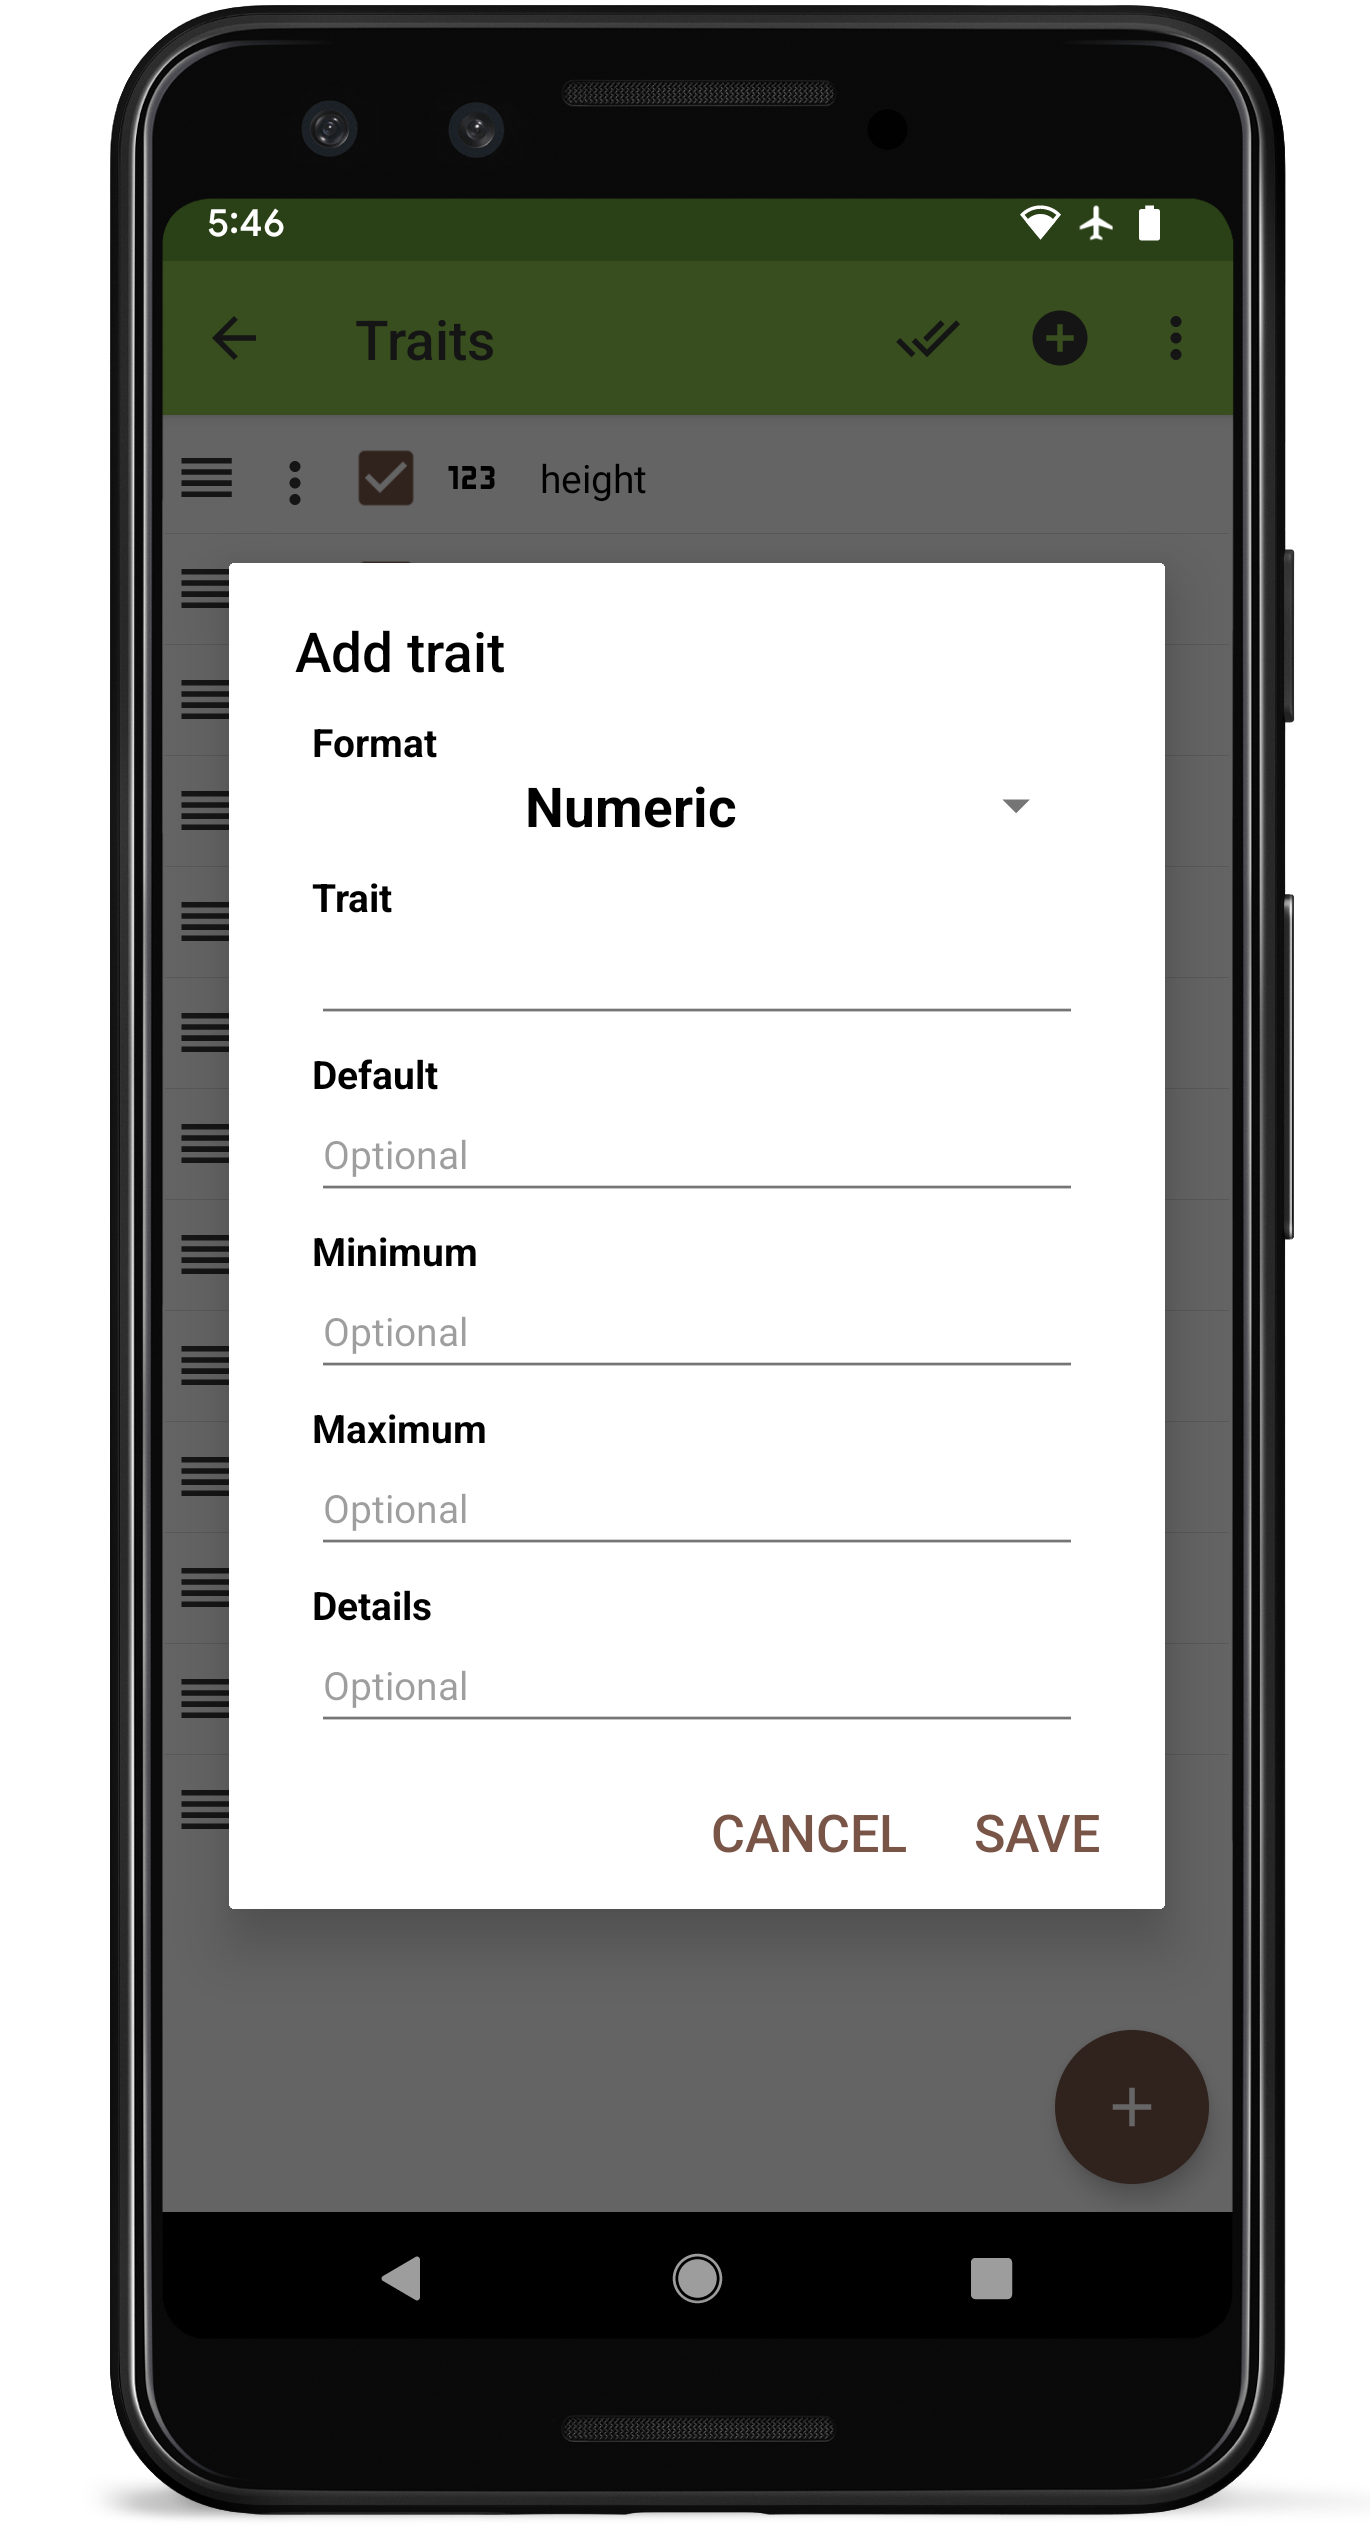
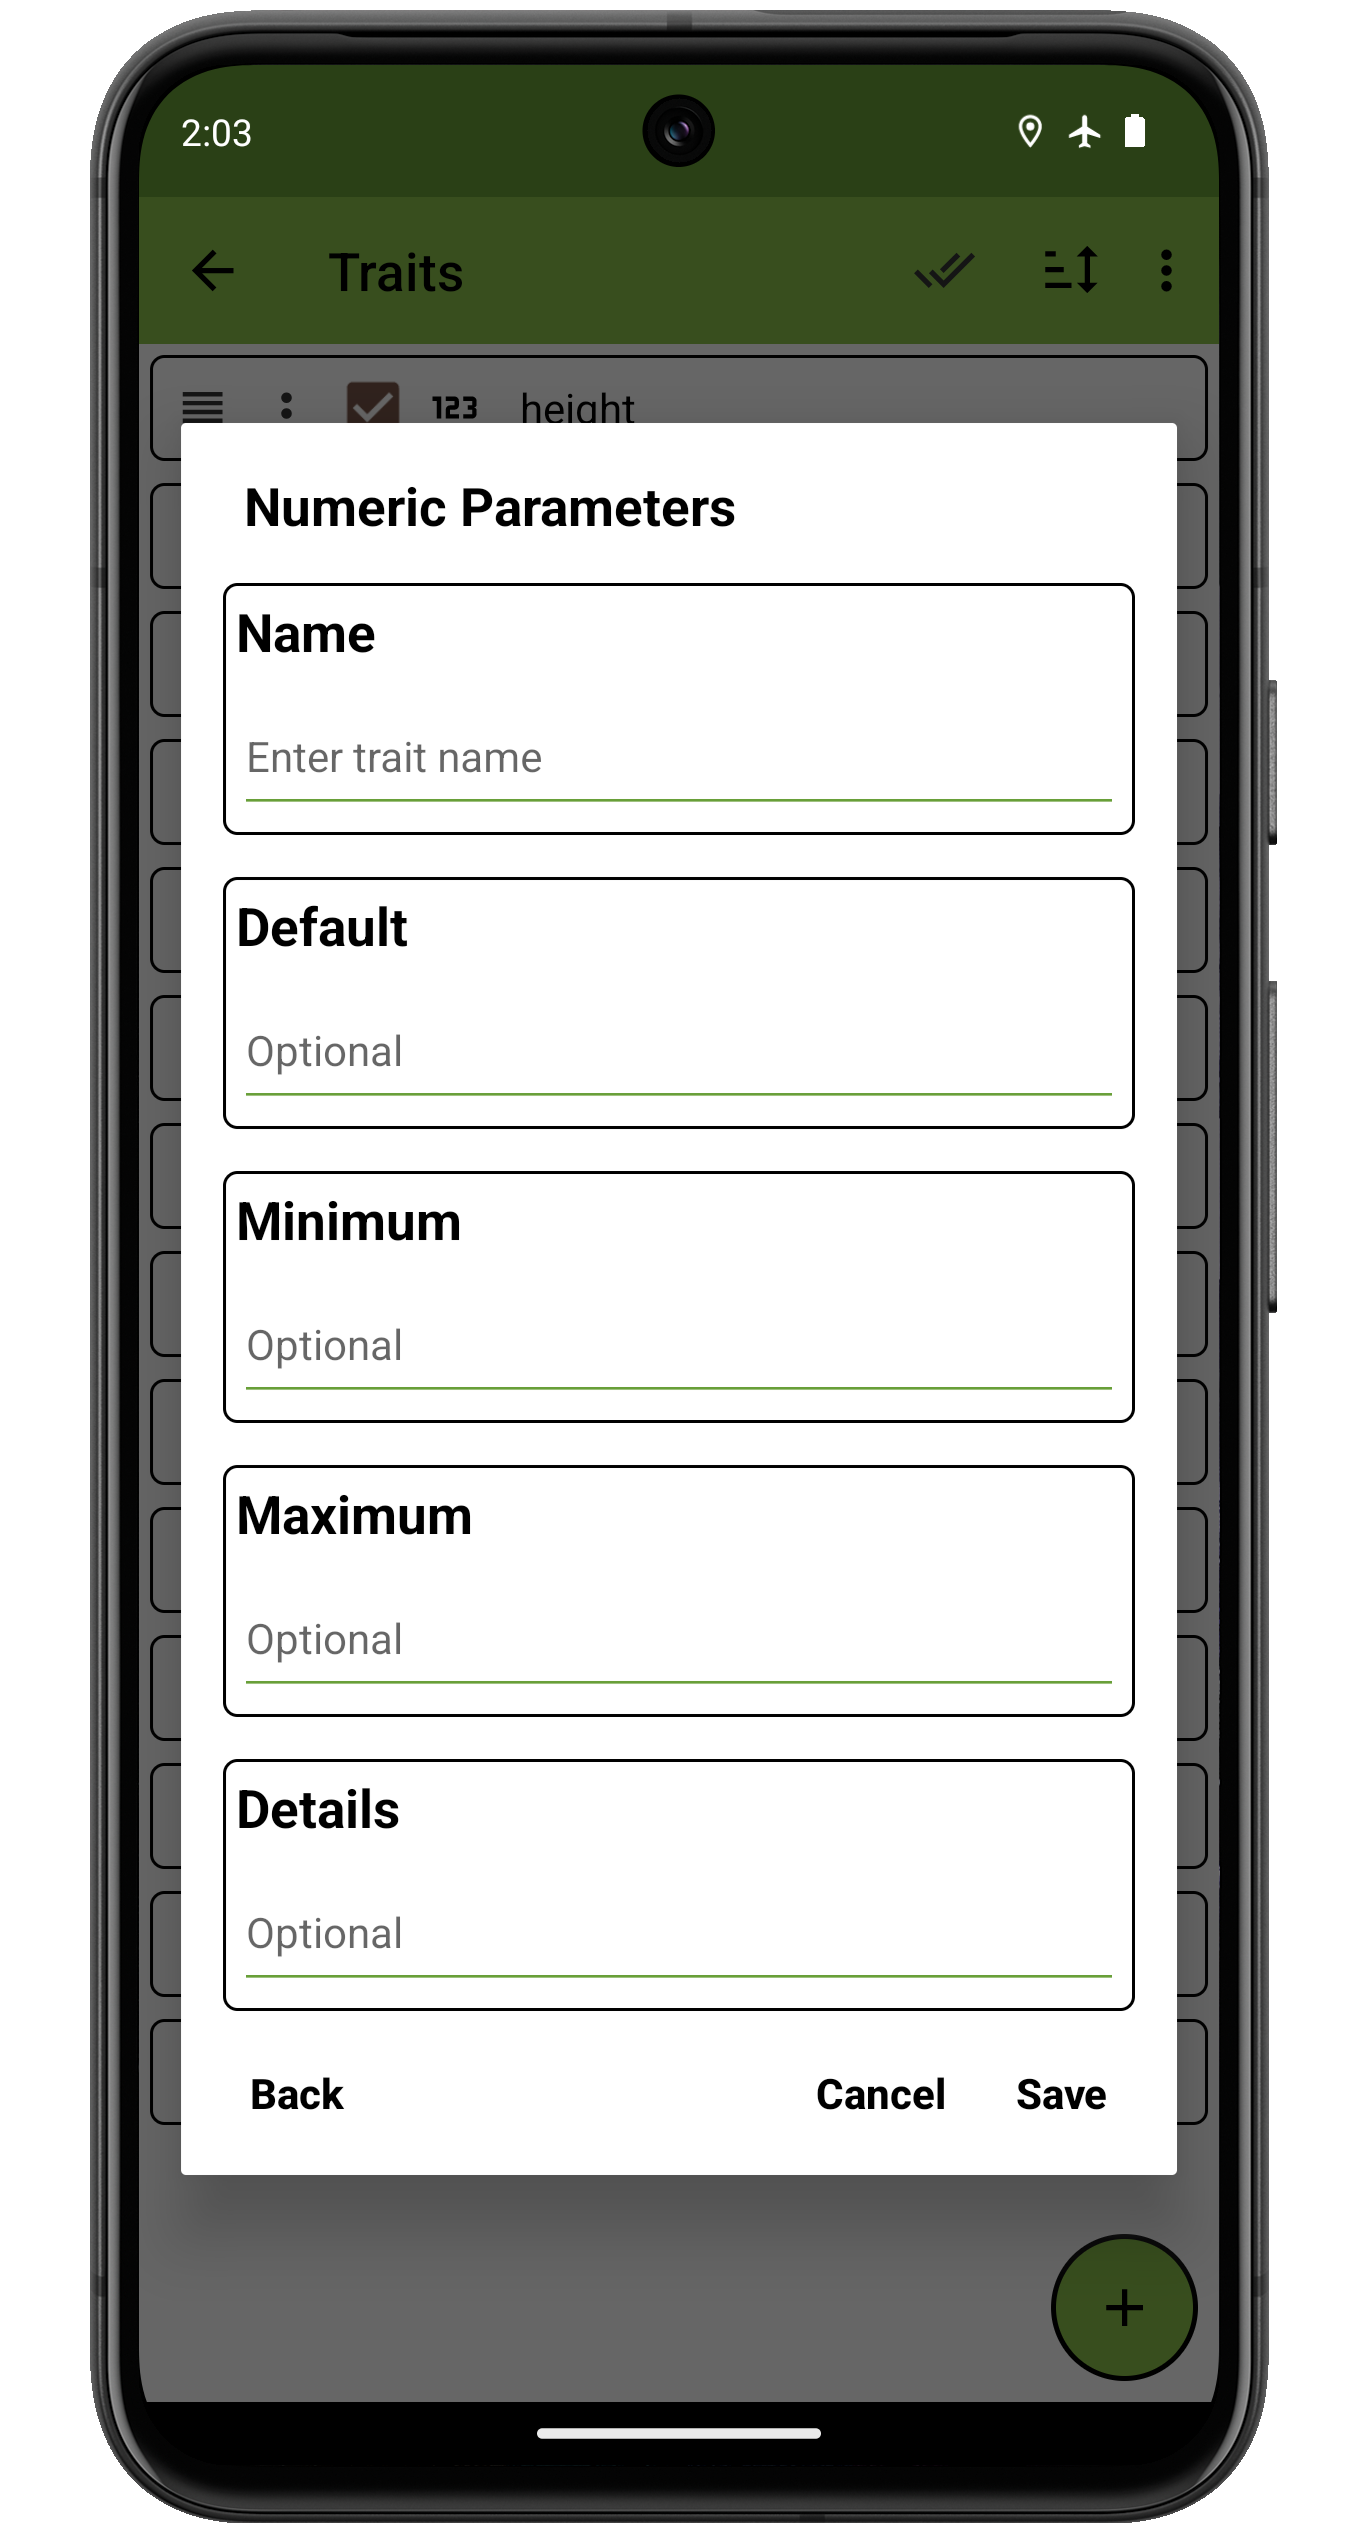
trait doc updates

diff --git a/docs/traits/trait-photo.md b/docs/traits/trait-photo.md
@@ -4,26 +4,46 @@
 Overview
 --------
 
-The photo trait format is used to capture images. It is created with a
-trait name and optional details.
+The photo trait formats are used to capture images. The creation process starts by picking a device-specific format. The simplest option is to use the system camera, but external devices (<img ref="connect" style="vertical-align: middle;" src="_static/icons/formats/camera-gopro.png" width="20px"> GoPro, <img ref="connect" style="vertical-align: middle;" src="_static/icons/formats/webcam.png" width="20px"> USB, or <img ref="connect" style="vertical-align: middle;" src="_static/icons/formats/shutter.png" width="20px"> Canon) are also supported
 
-On the collect page, the camera icon opens the device camera to capture
-images. Multiple photos can be captured for each entry. 
-
-Captured photos are stored in `.jpg` format, and named by using underscores to join the entry's unique_id, the trait name, the photo number, and a timestamp. The resulting files are stored in a picture folder within a field-specific subfolder of `plot_data`. An example photo filepath would be `plot_data/FIELD_NAME/picture/PHOTO_FILE_NAME.jpg`.
+<img ref="usb_camera" style="vertical-align: middle;" src="_static/icons/formats/webcam.png" width="40px">
 
 Creation
 --------
 
 <figure align="center" class="image">
-  <img src="_static/images/traits/formats/create_photo.png" width="325px"> 
-  <figcaption><i>Photo trait creation dialog</i></figcaption> 
+  <img src="_static/images/traits/formats/create_camera_options_framed.png" width="325px"> 
+  <figcaption><i>Photo trait device options</i></figcaption> 
 </figure>
+
+<figure align="center" class="image">
+  <img src="_static/images/traits/formats/create_photo_framed.png" width="325px"> 
+  <figcaption><i>Photo trait creation dialog (system camera)</i></figcaption> 
+</figure>
+
+On the collect page, pressing the <img ref="connect" style="vertical-align: middle;" src="_static/icons/formats/shutter.png" width="20px"> icon captures an image from the camera. Pressing the <img ref="connect" style="vertical-align: middle;" src="_static/icons/formats/cog.png" width="20px"> icon opens a settings dialog, where the resolution, preview, and caputre options can be adjusted. Multiple photos can be captured for each entry. 
 
 Collect layout
 --------------
 
 <figure align="center" class="image">
   <img src="_static/images/traits/formats/collect_photo_framed.png" width="350px"> 
-  <figcaption><i>Photo trait collection interface</i></figcaption> 
+  <figcaption><i>Photo trait collection interface (system camera)</i></figcaption> 
+</figure>
+
+<figure align="center" class="image">
+  <img src="_static/images/traits/formats/collect_photo_settings_framed.png" width="350px"> 
+  <figcaption><i>Photo trait collection settings (system camera)</i></figcaption> 
+</figure>
+
+Captured photos are stored in `.jpg` format, and named by using underscores to join the entry's unique_id, the trait name, the photo number, and a timestamp. The resulting files are stored in a picture folder within a field-specific subfolder of `plot_data`. An example photo filepath would be `plot_data/FIELD_NAME/picture/PHOTO_FILE_NAME.jpg`.
+
+External devices
+----------------
+
+The photo trait formats for capturing images from external devices work the same way as with the system camera, the only difference is the initial setup to connect to the device. Connect by pressing the <img ref="connect" style="vertical-align: middle;" src="_static/icons/formats/connection.png" width="20px"> icon when you first access the trait on the collect screen
+
+<figure align="center" class="image">
+  <img src="_static/images/traits/formats/collect_gopro_framed.png" width="350px"> 
+  <figcaption><i>Photo trait collection interface (GoPro)</i></figcaption> 
 </figure>

diff --git a/docs/_sidebar.md b/docs/_sidebar.md
@@ -3,22 +3,20 @@
   * [Storage](storage.md)
   * [Fields](fields.md)
   * [Traits](traits.md)
-    * [Numeric](traits/trait-numeric.md)
-    * [Categorical](traits/trait-categorical.md)
-    * [Date](traits/trait-date.md)
-    * [Percent](traits/trait-percent.md)
-    * [Boolean](traits/trait-boolean.md)
-    * [Text](traits/trait-text.md)
-    * [Photo](traits/trait-photo.md)
     * [Audio](traits/trait-audio.md)
-    * [Counter](traits/trait-counter.md)
-    * [Disease](traits/trait-disease.md)
+    * [Boolean](traits/trait-boolean.md)
+    * [Categorical](traits/trait-categorical.md)
     * [Multicat](traits/trait-multicat.md)
+    * [Counter](traits/trait-counter.md)
+    * [Date](traits/trait-date.md)
     * [Location](traits/trait-location.md)
-    * [Zebra](traits/trait-zebra.md)
+    * [Numeric](traits/trait-numeric.md)
+    * [Percent](traits/trait-percent.md)
+    * [Text](traits/trait-text.md)
+    * [Disease Rating](traits/trait-disease.md)
     * [GNSS](traits/trait-gnss.md)
-    * [USB Camera](traits/trait-usb-camera.md)
-    * [GoPro](traits/trait-gopro.md)
+    * [Photo](traits/trait-photo.md)
+    * [Zebra Label Print](traits/trait-zebra.md)
 * Function
   * [Collect](collect.md)
   * [Export](export.md)

diff --git a/docs/traits/trait-disease.md b/docs/traits/trait-disease.md
@@ -1,11 +1,10 @@
-<img ref="disease" style="vertical-align: middle;" src="_static/icons/formats/bug.png" width="40px"> Disease Trait
+<img ref="disease" style="vertical-align: middle;" src="_static/icons/formats/bug.png" width="40px"> Disease RatingTrait
 ======================================================================
 
 Overview
 --------
 
-The disease trait format is used for collecting ratings of both disease
-incidence and severity. It is created with a trait name and optional
+The disease rating trait format is used for collecting ratings of both disease incidence and severity. It is created with a trait name and optional
 details. The incidence scale can be adjusted by editing the
 `disease_severity.txt` file in the `traits` folder.
 
@@ -20,7 +19,7 @@ Creation
 --------
 
 <figure align="center" class="image">
-  <img src="_static/images/traits/formats/create_disease_rating.png" width="325px"> 
+  <img src="_static/images/traits/formats/create_disease_framed.png" width="325px"> 
   <figcaption><i>Disease trait creation dialog</i></figcaption> 
 </figure>
 

diff --git a/docs/traits/trait-zebra.md b/docs/traits/trait-zebra.md
@@ -20,7 +20,7 @@ Creation
 --------
 
 <figure align="center" class="image">
-  <img src="_static/images/traits/formats/create_zebra_label_print.png" width="325px"> 
+  <img src="_static/images/traits/formats/create_zebra_framed.png" width="325px"> 
   <figcaption><i>Zebra Label Print trait creation dialog</i></figcaption> 
 </figure>
 

diff --git a/docs/traits/trait-categorical.md b/docs/traits/trait-categorical.md
@@ -16,7 +16,7 @@ Creation
 --------
 
 <figure align="center" class="image">
-  <img src="_static/images/traits/formats/create_categorical.png" width="325px"> 
+  <img src="_static/images/traits/formats/create_categorical_framed.png" width="325px"> 
   <figcaption><i>Categorical trait creation dialog</i></figcaption> 
 </figure>
 

diff --git a/docs/traits/trait-location.md b/docs/traits/trait-location.md
@@ -17,7 +17,7 @@ Creation
 --------
 
 <figure align="center" class="image">
-  <img src="_static/images/traits/formats/create_location.png" width="325px"> 
+  <img src="_static/images/traits/formats/create_location_framed.png" width="325px"> 
   <figcaption><i>Location trait creation dialog</i></figcaption> 
 </figure>
 

diff --git a/docs/traits/trait-multicat.md b/docs/traits/trait-multicat.md
@@ -17,7 +17,7 @@ Creation
 --------
 
 <figure align="center" class="image">
-  <img src="_static/images/traits/formats/create_multicat.png" width="325px"> 
+  <img src="_static/images/traits/formats/create_multicat_framed.png" width="325px"> 
   <figcaption><i>Multicat trait creation dialog</i></figcaption> 
 </figure>
 

diff --git a/docs/traits/trait-boolean.md b/docs/traits/trait-boolean.md
@@ -13,7 +13,7 @@ Creation
 --------
 
 <figure align="center" class="image">
-  <img src="_static/images/traits/formats/create_boolean.png" width="325px"> 
+  <img src="_static/images/traits/formats/create_boolean_framed.png" width="325px"> 
   <figcaption><i>Boolean trait creation dialog</i></figcaption> 
 </figure>
 

diff --git a/docs/traits/trait-counter.md b/docs/traits/trait-counter.md
@@ -14,7 +14,7 @@ Creation
 --------
 
 <figure align="center" class="image">
-  <img src="_static/images/traits/formats/create_counter.png" width="325px"> 
+  <img src="_static/images/traits/formats/create_counter_framed.png" width="325px"> 
   <figcaption><i>Counter trait creation dialog</i></figcaption> 
 </figure>
 

diff --git a/docs/traits/trait-numeric.md b/docs/traits/trait-numeric.md
@@ -12,7 +12,7 @@ Creation
 --------
 
 <figure align="center" class="image">
-  <img src="_static/images/traits/formats/create_numeric.png" width="325px"> 
+  <img src="_static/images/traits/formats/create_numeric_framed.png" width="325px"> 
   <figcaption><i>Numeric trait creation dialog</i></figcaption> 
 </figure>
 

diff --git a/docs/traits/trait-percent.md b/docs/traits/trait-percent.md
@@ -16,7 +16,7 @@ Creation
 --------
 
 <figure align="center" class="image">
-  <img src="_static/images/traits/formats/create_percent.png" width="325px"> 
+  <img src="_static/images/traits/formats/create_percent_framed.png" width="325px"> 
   <figcaption><i>Percent trait creation dialog</i></figcaption> 
 </figure>
 

diff --git a/docs/traits/trait-audio.md b/docs/traits/trait-audio.md
@@ -22,7 +22,7 @@ Creation
 --------
 
 <figure align="center" class="image">
-  <img src="_static/images/traits/formats/create_audio.png" width="325px"> 
+  <img src="_static/images/traits/formats/create_audio_framed.png" width="325px"> 
   <figcaption><i>Audio trait creation dialog</i></figcaption> 
 </figure>
 
